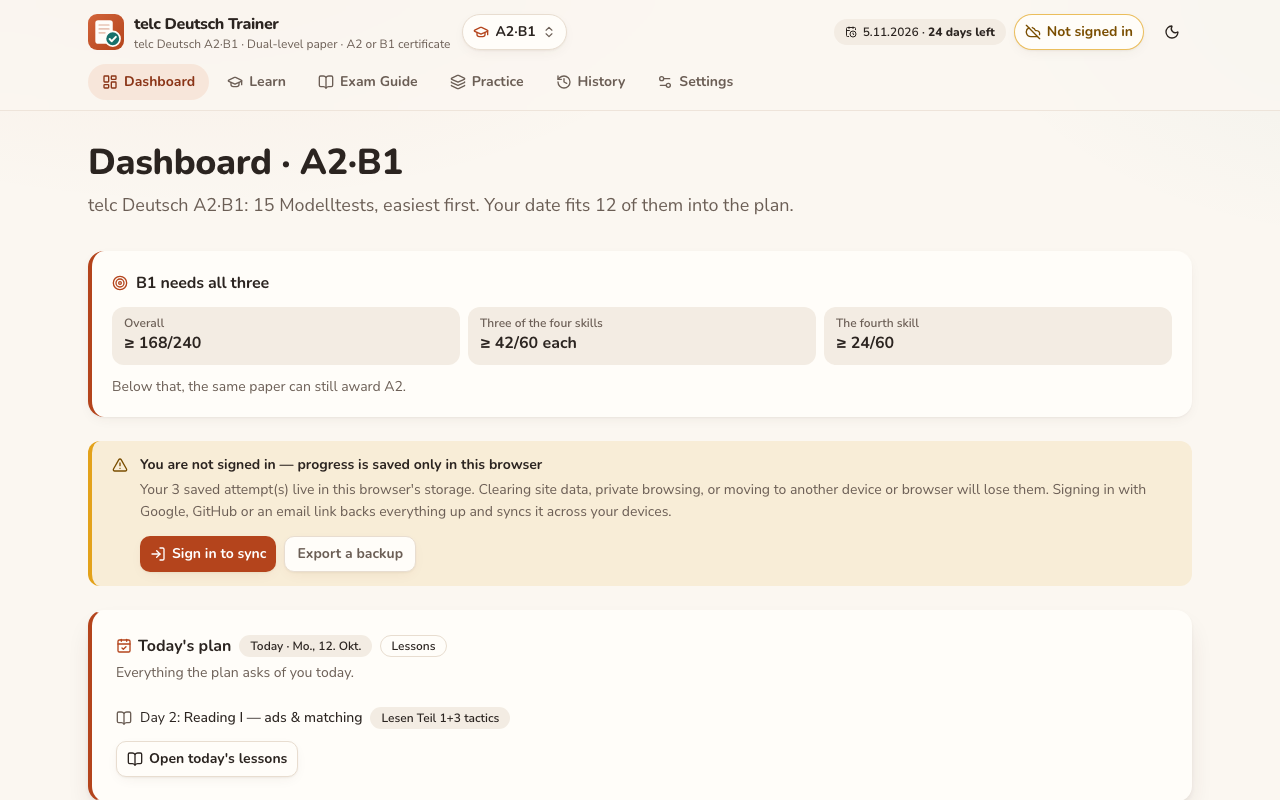
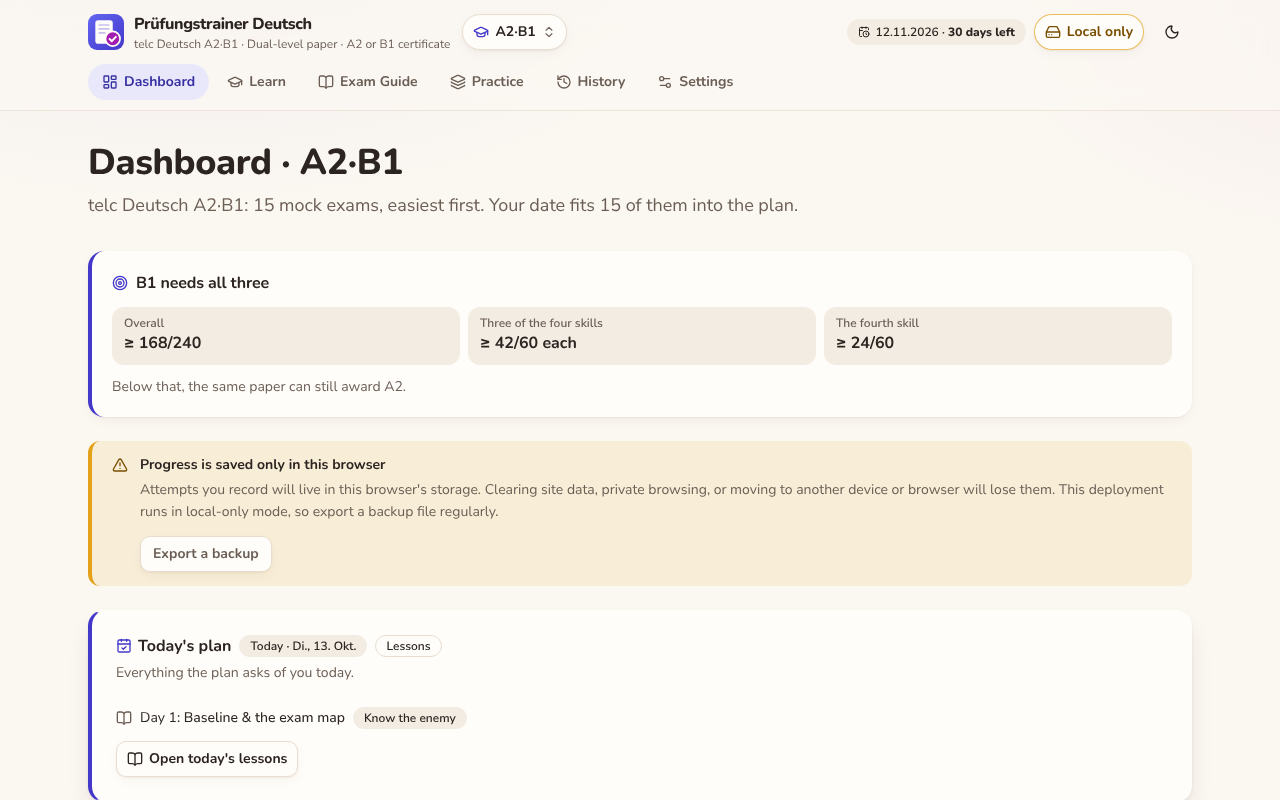
docs: refresh the README screenshots and text for the public release

diff --git a/README.md b/README.md
@@ -2,6 +2,7 @@
   <img src="public/logo.svg" alt="" width="76" height="76">
   <h1>Prüfungstrainer Deutsch</h1>
   <p><strong>Four German exams — telc A2·B1, B1, B2 and the DTZ — 45 complete mock exams under real timing, scored using the published pass rules.</strong></p>
+  <p><a href="https://pruefungstrainer-deutsch.netlify.app"><strong>Live demo →</strong></a> runs entirely in your browser, no sign-up.</p>
   <p>
     <a href="https://github.com/prangonsafayet/pruefungstrainer-deutsch/actions/workflows/ci.yml"><img alt="CI" src="https://github.com/prangonsafayet/pruefungstrainer-deutsch/actions/workflows/ci.yml/badge.svg"></a>
     <img alt="License" src="https://img.shields.io/badge/license-MIT-blue">
@@ -69,7 +70,7 @@ from three Teilergebnisse — Hören/Lesen, Schreiben and Sprechen.
 - **Local-first progress.** Everything is stored in the browser and exportable as a
   file. Self-hosted builds can add optional cloud sync behind Google, GitHub or
   email + password; without it the app says clearly that progress stays local.
-- A redesigned UI built on design tokens, in light and dark mode,
+- A UI built on design tokens (indigo and magenta), in light and dark mode,
   keyboard-accessible throughout, and a deep-linkable URL for every screen.
 
 ## Screens
@@ -78,13 +79,13 @@ from three Teilergebnisse — Hören/Lesen, Schreiben and Sprechen.
 
 <table>
   <tr>
-    <td colspan="2"><img src="docs/screenshots/learn-plan.png" alt="The Learn tab: today's dated lesson with checkboxes and Go-to links on the left, and the Theme vocabulary cheatsheet open in a side panel on the right with a Back to Day 2 button"></td>
+    <td colspan="2"><img src="docs/screenshots/learn-plan.png" alt="The Learn tab: today's dated lesson with its first task ticked and Go-to links on the left, and the Theme vocabulary cheatsheet open in a side panel on the right"></td>
   </tr>
   <tr>
     <td colspan="2"><strong>The plan</strong> — the curriculum laid out as dated days from today, re-paced whenever the exam date changes. Each task links to where it is done, and cheatsheets open beside the plan.</td>
   </tr>
   <tr>
-    <td width="50%"><img src="docs/screenshots/runner.png" alt="The B1 Lesen module on a wide screen: a sticky bar with the countdown ring, 5 of 20 answered and a Submit button; below, the reading text on the left and its multiple-choice questions on the right, the chosen option outlined and marked Selected"></td>
+    <td width="50%"><img src="docs/screenshots/runner.png" alt="The B1 Lesen module on a wide screen: a sticky bar with the countdown ring, 4 of 20 answered and a Submit button; below, the ten headings of Teil 1 on the left and the texts to match them to on the right"></td>
     <td width="50%"><img src="docs/screenshots/results.png" alt="DTZ results for a full sitting: Zertifikat B1 in large green type, the three part results with their B1 and A2 lines in German, and score bars per part"></td>
   </tr>
   <tr>
@@ -101,7 +102,7 @@ from three Teilergebnisse — Hören/Lesen, Schreiben and Sprechen.
   </tr>
   <tr>
     <td><img src="docs/screenshots/mobile-dashboard.png" alt="The dashboard on a phone, with the bottom tab bar for Dashboard, Learn, Practice, History and More"></td>
-    <td><img src="docs/screenshots/mobile-runner.png" alt="The DTZ Lesen module on a phone: the directory text above its question, the chosen answer card marked Selected, and the timer, progress and Submit button docked at the bottom within thumb reach"></td>
+    <td><img src="docs/screenshots/mobile-runner.png" alt="The DTZ Lesen module on a phone: the directory text of Teil 1, with the timer, progress and Submit button docked at the bottom within thumb reach"></td>
   </tr>
   <tr>
     <td><strong>On a phone</strong> — a bottom tab bar for the daily screens; nothing scrolls sideways at 360px.</td>
@@ -152,11 +153,11 @@ verified in a real browser via the network log, not just by chunk names in the
 build report.
 
 **Two test layers, because they catch different things.** Vitest runs the pure
-logic in Node and the mounted app in happy-dom — 1,212 assertions across 39 files
-in a few seconds, including a sweep of the schedule engine across every runway
+logic in Node and the mounted app in happy-dom — more than 1,800 tests across 82 files
+in under a minute, including a sweep of the schedule engine across every runway
 length from five days to ninety, and a check that an attempt survives a
 mid-module reload with its clock still running. Playwright covers what no DOM
-emulation can judge: layout at three breakpoints, dark-mode persistence, popover
+emulation can judge: layout at three breakpoints, colour contrast in both themes, dark-mode persistence, popover
 positioning, and that the OAuth handoff is really PKCE rather than an implicit
 flow. Between them they caught an infinite render loop that only reproduced on
 machines with no German text-to-speech voice installed, a timer that stalled
@@ -176,24 +177,27 @@ interactive elements in feature code, and every animation behind
 
 Every gate runs in CI on each pull request; the fast, offline ones also run before a push.
 
-| Gate                            | Command                                                                                |
-| ------------------------------- | -------------------------------------------------------------------------------------- |
-| Typecheck (strict)              | `npm run typecheck`                                                                    |
-| Lint, zero warnings             | `npm run lint -- --max-warnings=0`                                                     |
-| Accessibility lint              | jsx-a11y's strict preset, inside lint                                                  |
-| Architecture                    | layer boundaries and components-visual-only in lint, plus `npm run check:architecture` |
-| Design tokens                   | raw colours refused in lint and `npm run check:css`                                    |
-| Formatting                      | `npm run format:check`                                                                 |
-| Exam-data validation            | `npm run validate`                                                                     |
-| Unit and render tests           | `npm run test:unit` (Vitest, Node + happy-dom)                                         |
-| End-to-end                      | `npm run test:e2e` (Playwright)                                                        |
-| Production dependency audit     | `npm run audit:prod`                                                                   |
-| Persisted storage-key invariant | `npm run check:storage-keys`                                                           |
-| Claude Code guardrail hooks     | `npm run test:hooks`                                                                   |
+| Gate                            | Command                                                                                 |
+| ------------------------------- | --------------------------------------------------------------------------------------- |
+| Typecheck (strict)              | `npm run typecheck`                                                                     |
+| Lint, zero warnings             | `npm run lint -- --max-warnings=0`                                                      |
+| Accessibility lint              | jsx-a11y's strict preset, inside lint                                                   |
+| Architecture                    | layer boundaries and components-visual-only in lint, plus `npm run check:architecture`  |
+| Design tokens                   | raw colours refused in lint and `npm run check:css`                                     |
+| Formatting                      | `npm run format:check`                                                                  |
+| Exam-data validation            | `npm run validate`                                                                      |
+| Unit and render tests           | `npm run test:coverage` (Vitest, Node + happy-dom, with a coverage gate)                |
+| Dead code                       | `npm run knip:ci`                                                                       |
+| Built site: CSP and offline     | `npm run test:csp`, `npm run test:offline` (the production build with its real headers) |
+| End-to-end                      | `npm run test:e2e` (Playwright)                                                         |
+| Production dependency audit     | `npm run audit:prod`                                                                    |
+| Persisted storage-key invariant | `npm run check:storage-keys`                                                            |
+| Claude Code guardrail hooks     | `npm run test:hooks`                                                                    |
 
 `npm run guards` runs the architecture, token, storage-key, hook and audit gates together.
-Two more report without blocking until their findings are cleared: the dev-dependency audit
-(`npm run audit:all`) and dead-code detection with knip (`npm run knip`).
+The dev-dependency audit (`npm run audit:all`) reports without blocking. Content originality is
+checked locally with `npm run check:originality`, which compares the mock exams against
+reference texts kept out of the repo.
 
 ## Working with Claude Code
 
